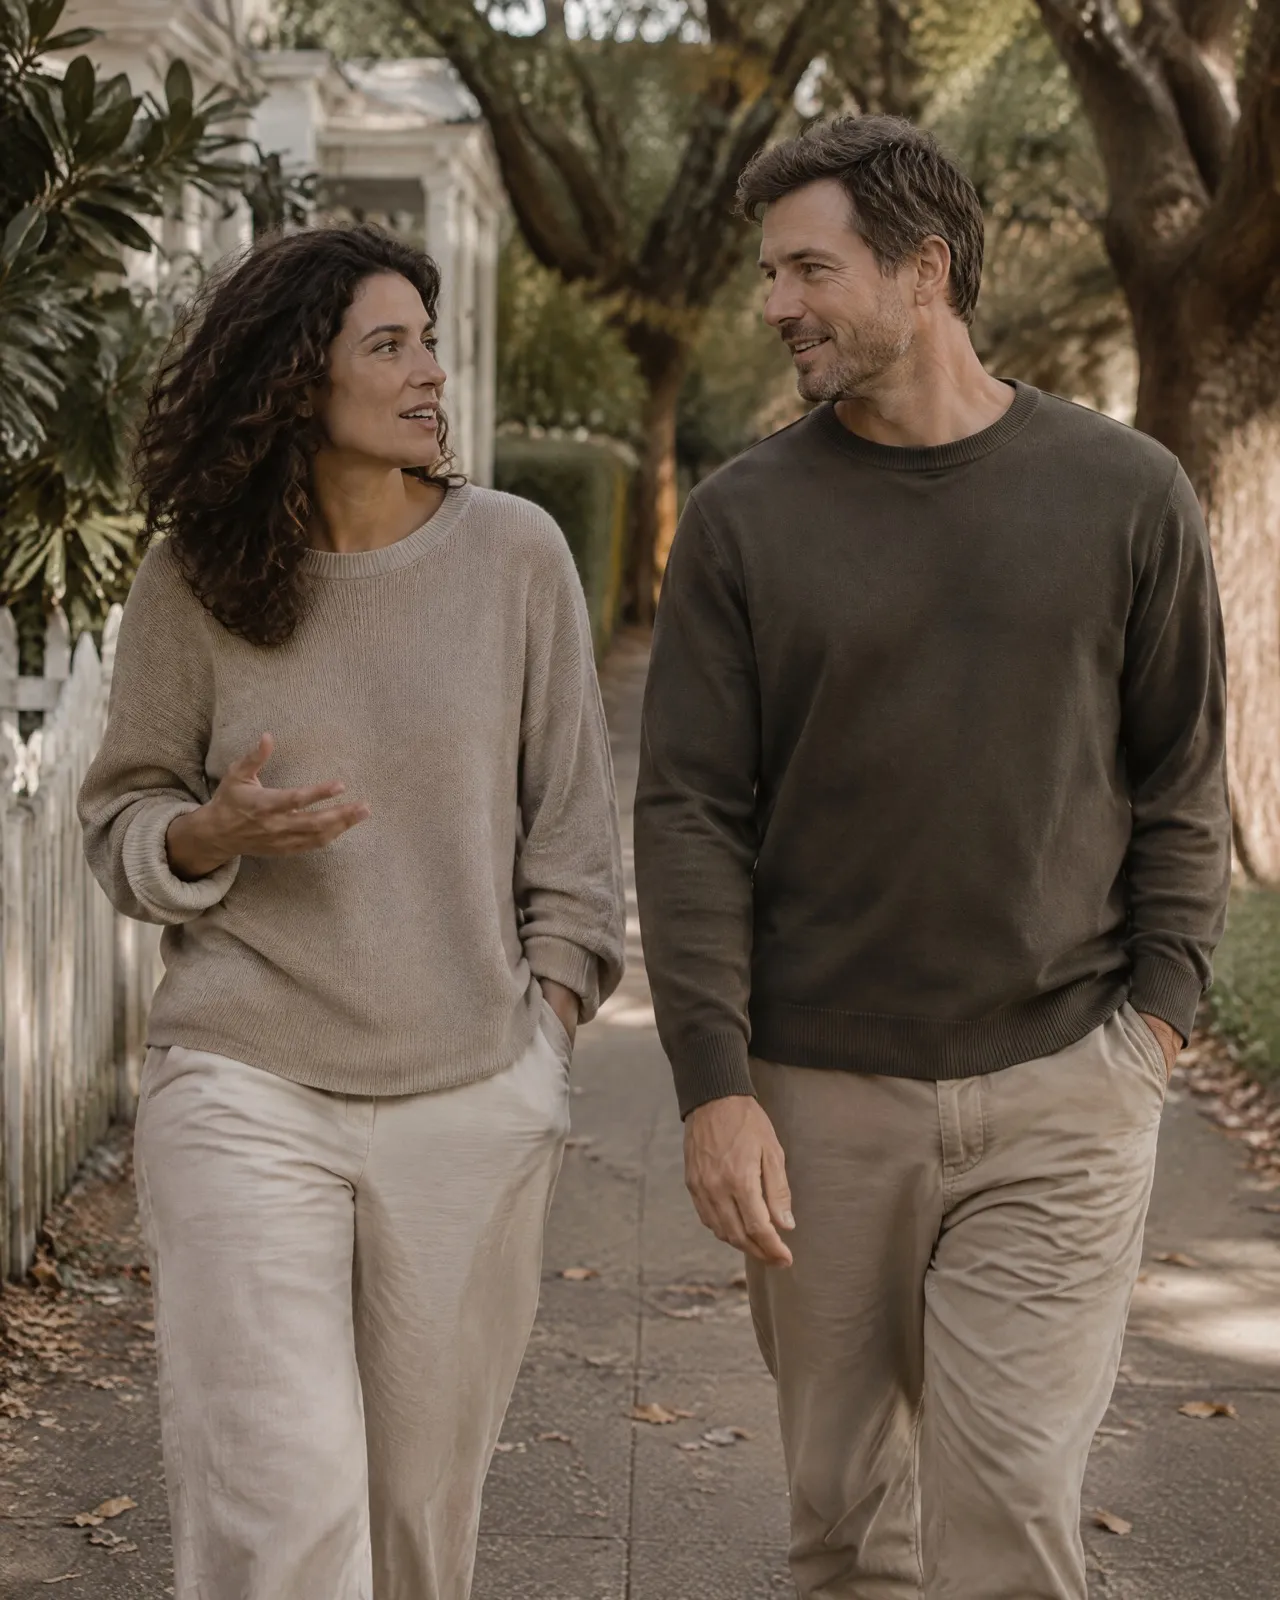
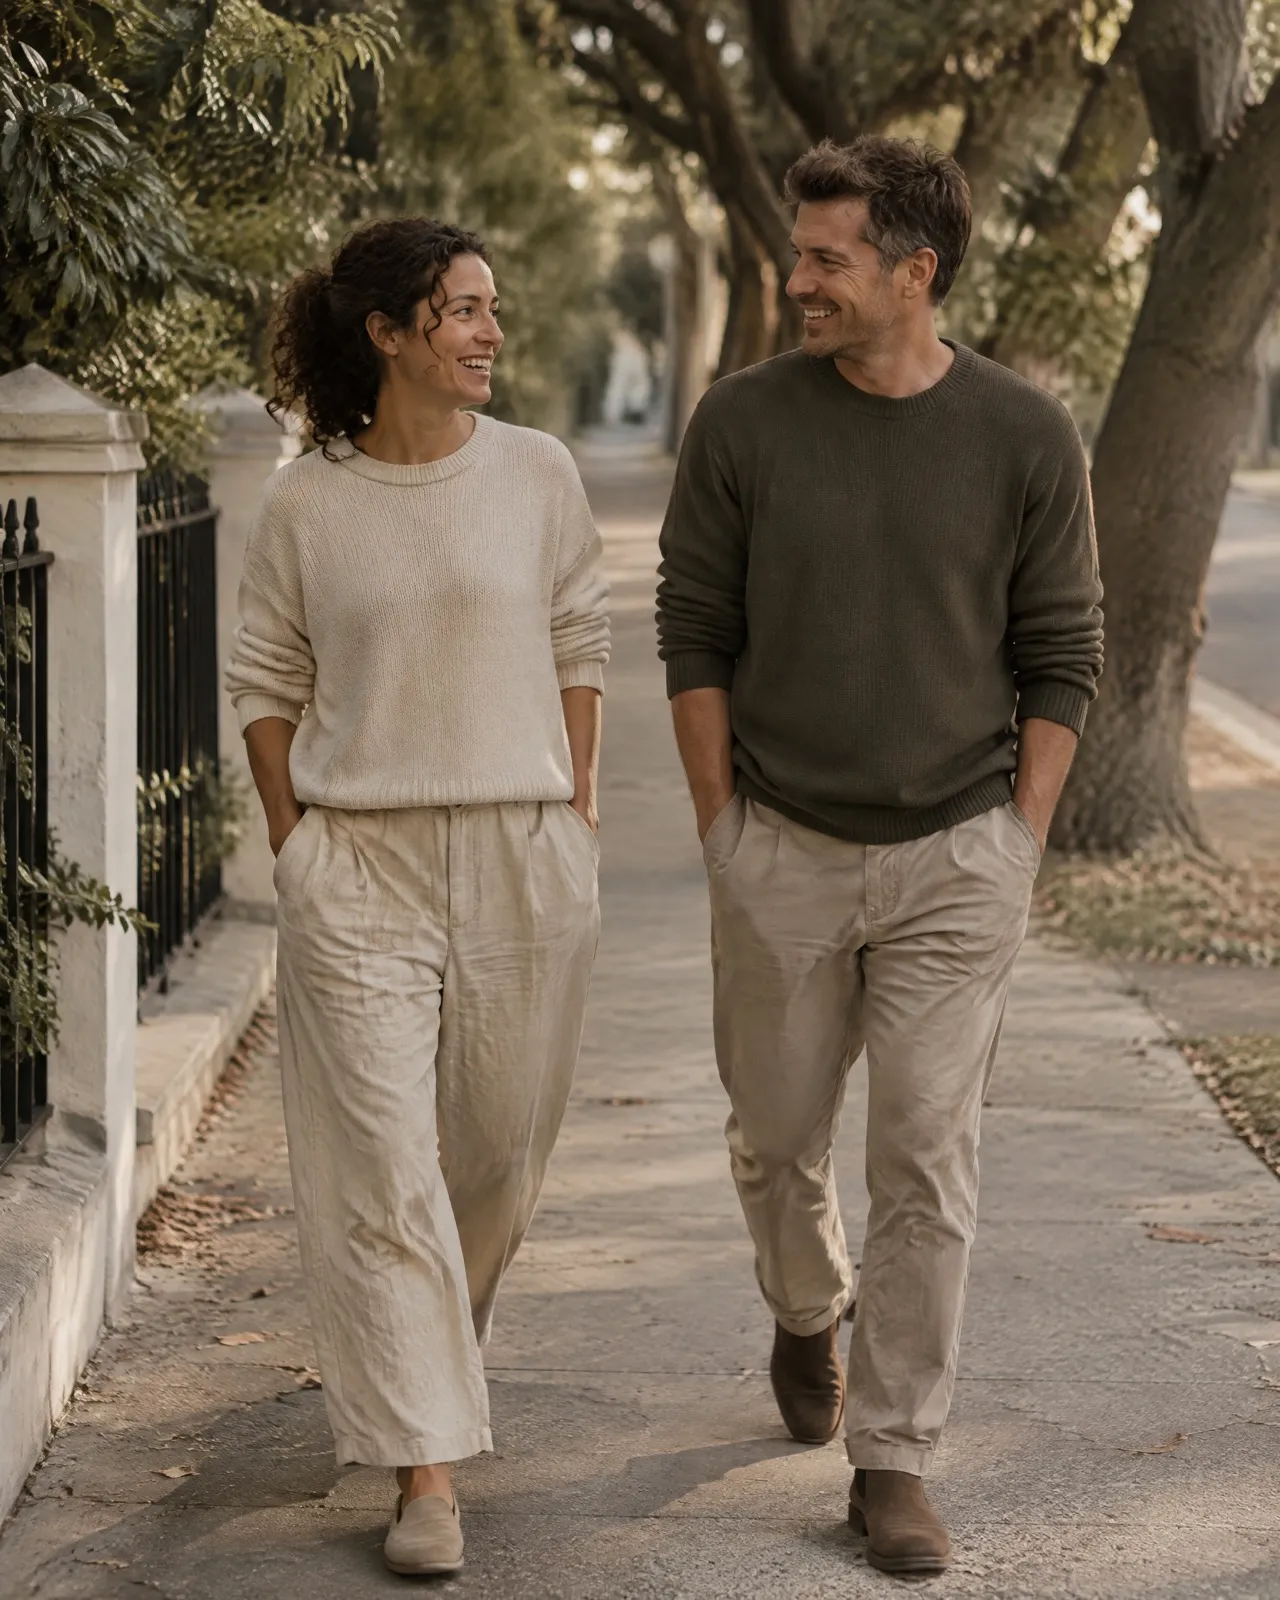
Program pages: replace four photos whose hands rendered badly (Higgsfield rerolls)
Claude-Session: https://claude.ai/code/session_01FW1R4SWQbVpjshMD34BJ6S

diff --git a/components/ProgramPageTemplate.tsx b/components/ProgramPageTemplate.tsx
@@ -85,7 +85,7 @@ const IMG = {
   womanStairs: { src: '/photos/woman-stairs.webp', alt: 'Woman climbing outdoor stairs above the coast', pos: '50% 28%', posD: '50% 3%', portrait: true },
   womanCall: { src: '/photos/woman-video-call.webp', alt: 'Woman on a video call at a laptop by a window', pos: '50% 34%', posM: '45% 34%', posD: '50% 15%', portrait: true },
   parkBench: { src: '/photos/man-park-bench.webp', alt: 'Man in a hoodie resting on a park bench', pos: '50% 26%', posD: '50% 17%', portrait: true },
-  kettlebell: { src: '/photos/man-kettlebell.webp', alt: 'Man lifting a kettlebell in a timber-walled gym', pos: '50% 30%', posD: '50% 0%', portrait: true },
+  kettlebell: { src: '/photos/man-kettlebell.webp', alt: 'Man resting between sets in a timber-walled home gym', pos: '50% 30%', posD: '50% 0%', portrait: true },
   couple: { src: '/photos/couple-walk.webp', alt: 'A couple talking as they walk along a leafy street', pos: '50% 26%', posD: '50% 4%', portrait: true },
 } satisfies Record<string, Shot>
 
